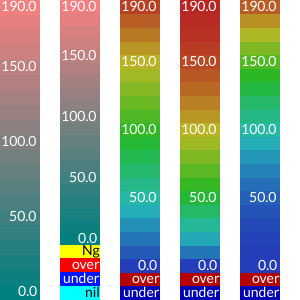
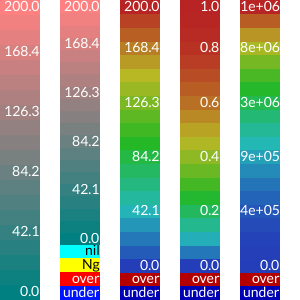
fix: color scale test format

diff --git a/matrix.go b/matrix.go
@@ -80,8 +80,8 @@ func (c ColorScale) DrawVertical(dc *gg.Context) {
 	splitLen := 20
 	zY = c.Y + numH // 書き込み基準高さを指定
 	dy = numH / float64(splitLen)
-	dv := (c.Vmax - c.Vmin) / float64(splitLen)
-	step := int(math.Ceil(fontHeight * 3 / dv))
+	dv := (c.Vmax - c.Vmin) / float64(splitLen-1)
+	step := 4 // 固定値5分割。できればheightの長さに合わせたい。
 
 	for i := 0; i < splitLen; i++ {
 		v, _ := NewValue(c.Vmin + (dv * float64(i)))
@@ -96,7 +96,11 @@ func (c ColorScale) DrawVertical(dc *gg.Context) {
 		// Text
 		if i == 0 || i == splitLen-1 || i%step == 0 {
 			dc.SetColor(color.NRGBA{255, 255, 255, 255})
-			dc.DrawStringAnchored(fmt.Sprintf("%.1f ", v.Value().(float64)), c.X+c.W-1, y, 1, 0.8)
+			if v.Value().(float64) > 1000 {
+				dc.DrawStringAnchored(fmt.Sprintf("%.2g", v.Value().(float64)), c.X+c.W-1, y, 1, 0.8)
+			} else {
+				dc.DrawStringAnchored(fmt.Sprintf("%.1f", v.Value().(float64)), c.X+c.W-1, y, 1, 0.8)
+			}
 			dc.Fill()
 		}
 	}

diff --git a/examples/image_test.go b/examples/image_test.go
@@ -290,7 +290,7 @@ func TestGGColorScale(t *testing.T) {
 		//
 		cfn := lgimage.ValueMapWithFunc{
 			Vmin: 0,
-			Vmax: 200,
+			Vmax: 1,
 			ColorFunc: func(vi float64) color.Color {
 				ve := ease.EaseOutQuad(vi)
 				c := colorful.Hsv(230-ve*230, 0.8, 0.72)
@@ -304,7 +304,7 @@ func TestGGColorScale(t *testing.T) {
 			W:    40,
 			H:    300,
 			Vmin: 0,
-			Vmax: 200,
+			Vmax: 1,
 			Cfn:  cfn,
 			Font: fLat16,
 		}
@@ -319,7 +319,7 @@ func TestGGColorScale(t *testing.T) {
 		//
 		cfn := lgimage.ValueMapWithFunc{
 			Vmin: 0,
-			Vmax: 200,
+			Vmax: 2105570,
 			ColorFunc: func(vi float64) color.Color {
 				ve := ease.EaseInQuad(vi)
 				c := colorful.Hsv(230-ve*230, 0.8, 0.72)
@@ -333,7 +333,7 @@ func TestGGColorScale(t *testing.T) {
 			W:    40,
 			H:    300,
 			Vmin: 0,
-			Vmax: 200,
+			Vmax: 2105570,
 			Cfn:  cfn,
 			Font: fLat16,
 		}

diff --git a/README.md b/README.md
@@ -2,3 +2,11 @@
 
 nodejs で画像生成サーバーを作っていたが、canvasのbuild周りの取り扱いが難しいことと
 書きやすさの関係でgolangの使用を始めたので、golangで置き換えが可能か検証を行う
+
+
+## referece
+
+- [ease function](https://gist.github.com/gre/1650294)
+
+
+http://foxcodex.html.xdomain.jp/index.html
